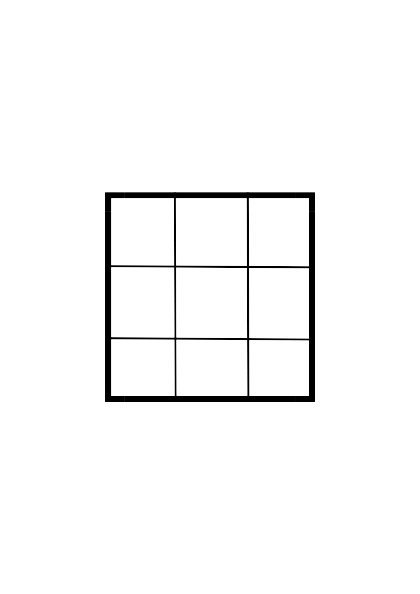
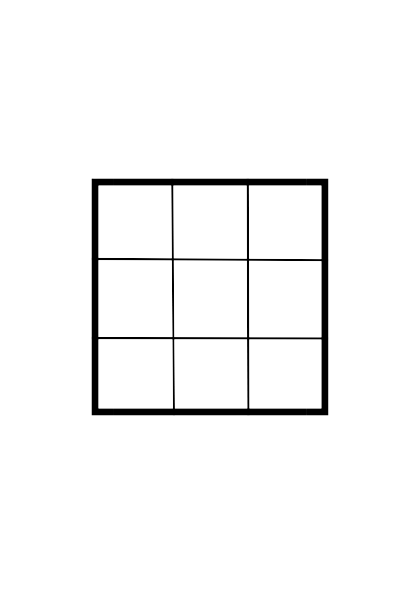
Borda do tabuleiro inserida

Changed region(s): [[0.2167, 0.2727, 0.8048, 0.7273]]

diff --git a/Interface.py b/Interface.py
@@ -5,6 +5,7 @@ from tkinter import ttk
 from Heap import *
 from Tabuleiro import *
 import threading
+import os
 
 
 global estadoAtual
@@ -101,7 +102,10 @@ def telaStart():
     janela.minsize(width=800, height=800)
     janela.maxsize(width=800, height=800)
 
-
+    pasta = os.path.dirname(__file__)
+    image_borda = PhotoImage(file= pasta+"\\Borda.png")
+    borda = Label(janela, image = image_borda)
+    borda.place(x = 188, y = 100)
 
     font1=('Times',22,'normal')
     linha,coluna=0,0
@@ -114,7 +118,7 @@ def telaStart():
 
 
     for data in l1:
-        label=ttk.Label(janela,textvariable=data,font=font1, foreground= "red", background="white")
+        label=ttk.Label(janela,textvariable=data,font=font1, foreground= "red")
         
         label.grid(row=linha,column=coluna,padx=50,pady=50)
         coluna=coluna+1
